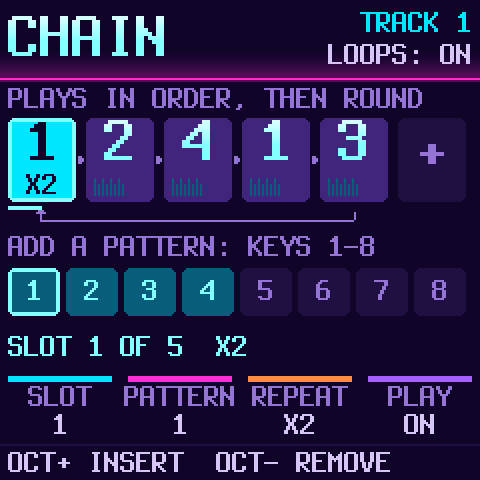
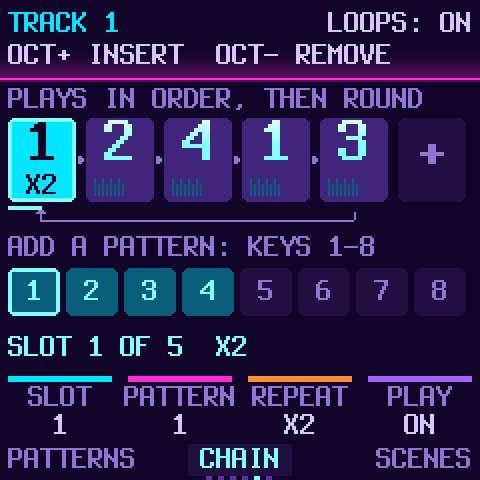
PATTERNS, CHAIN, SCENES: the page tabs at the bottom, as the other pages
The bottom line shows the page in a box between the page before and
after it, with a dot for each SEQ page (ui_draw.c draw_foot's look).
What OCT+ and OCT- do moves to the header's second line, under the
track; the large title goes (the tab names the page).

The guide's screenshots (assets/screens/all) are drawn again: the three
pages, and the boot and ABOUT screens with the version 1.9.7. GUIDE.md,
docs/groovebox-controls.md and CHANGELOG.md say so. The 1.9.7 packages
are rebuilt in the next commit.

Claude-Session: https://claude.ai/code/session_01CzC2fbFi3RyUU6oH7XmUWv

diff --git a/project/firmware/src/ui_pats.c b/project/firmware/src/ui_pats.c
@@ -154,14 +154,19 @@ UI_SMALL static void pats_key(uint32_t k)
     fmt_int(b + 8, w + 1);
     ui_say(b, song.playing ? " NEXT" : "");
 }
-/* the head: the title, two lines on the right */
-UI_SMALL static void pats_head(const char *title, const char *r1, uint16_t c1, const char *r2, uint16_t c2)
+UI_SMALL static uint32_t page_pos(uint32_t *n);      /* (ui_draw.c) */
+UI_SMALL static int32_t page_nb(int32_t d);
+UI_SMALL static const char *page_name(uint32_t i);
+/* the head (1.9.7): line 1 what it is about, left and right; line 2 what OCT+ and OCT- do here (before: the title in
+ * large type, the OCT line at the bottom, where the page's tabs are now as on the other pages: pats_foot) */
+UI_SMALL static void pats_head(const char *r1, uint16_t c1, const char *r2, uint16_t c2)
 {
+    static const char *const OCT[3] = {"oct+ this track  oct- all", "oct+ insert  oct- remove", "oct+ launch  oct- store"};
     cv_begin(240, 42, C_BLACK);
     cv_glow(20, 38);                             /* (1.1.0) SYNTHWAVE: a glow over the rule */
-    cv_text(4, 4, &FONT_L, title, C_WHITE);
-    ui_text_r(4, r1, c1);
-    ui_text_r(20, r2, c2);
+    cv_text(4, 4, &FONT_S, r1, c1);
+    ui_text_r(4, r2, c2);
+    cv_text(4, 20, &FONT_S, OCT[pats_view() % 3u], UI_G4);
     cv_rule(0, 39, 240, UI_G1);
     cv_blit(0, 0);
 }
@@ -197,10 +202,14 @@ UI_SMALL static void pats_pic(int32_t x, int32_t y, int32_t w, int32_t h, uint64
             cv_rect(x + (int32_t)i * cw, y + h - hh, cw > 2 ? cw - 1 : 1, hh, c);
     }
 }
-/* the knobs at 188 (or a message), the buttons' line under them */
-UI_SMALL static void pats_foot(const char *const *L, char (*v)[8], const char *hint)
+/* the knobs at 188 (or a message); under them (1.9.7) the page's tab between its neighbours (what SELECT brings) and a
+ * dot a page of the family, this one lit, as on the other SEQ pages (ui_draw.c draw_foot) */
+UI_SMALL static void pats_foot(const char *const *L, char (*v)[8])
 {
-    uint32_t k;
+    uint32_t k, n, i, at = page_pos(&n);
+    int32_t pv = page_nb(-1), nx = page_nb(1);
+    const char *nm = page_name(ui.page);
+    int32_t w = text_w(&FONT_S, nm) + 12, x = 120 - w / 2;
     cv_begin(240, 52, C_BLACK);
     if (ui.msg_t) {
         cv_rect(0, 2, 240, 30, C_WHITE);
@@ -213,8 +222,14 @@ UI_SMALL static void pats_foot(const char *const *L, char (*v)[8], const char *h
                     ui.hot_t && ui.hot_col == k ? C_WHITE : UI_G4);
         }
     }
-    cv_rect(0, 34, 240, 1, UI_G1);
-    cv_text(4, 36, &FONT_S, hint, UI_G4);
+    cv_rect(x, 34, w, 16, UI_G1);
+    cv_text(x + 6, 34, &FONT_S, nm, C_WHITE);
+    if (pv >= 0)
+        cv_text(4, 34, &FONT_S, page_name((uint32_t)pv), UI_G3);
+    if (nx >= 0)
+        ui_text_r(34, page_name((uint32_t)nx), UI_G3);
+    for (i = 0; n > 1u && i < n; i++)
+        cv_rect(120 - (int32_t)n * 3 + (int32_t)i * 6 + 1, 50, 3, 2, i + 1u == at ? C_WHITE : C_DIM);
     cv_blit(0, 188);
 }
 /* the keyboard: white keys 1..16 (F3 .. G5) and the black keys between, 1..8 the track's patterns, 9..16 the scenes;
@@ -275,7 +290,7 @@ UI_SMALL static void pads_draw(uint32_t blink)
     fmt_int(b + 6, (int32_t)sel + 1);
     fmt_int(q, (int32_t)(pb_n * 100u / PB_SIZE));       /* (how full the pattern store is) */
     str_cpy(q + str_len(q), "% full", 8);
-    pats_head("PATTERNS", b, UI_COL[sel], q, pb_n * 10u > PB_SIZE * 9u ? UI_RED : UI_G3);
+    pats_head(b, UI_COL[sel], q, pb_n * 10u > PB_SIZE * 9u ? UI_RED : UI_G3);
     cv_begin(240, 98, C_BLACK);                  /* the eight tiles, two rows of four */
     for (p = 0; p < NPAT; p++) {
         int32_t x = 4 + (int32_t)(p % 4u) * 59, y = 2 + (int32_t)(p / 4u) * 50;
@@ -316,7 +331,7 @@ UI_SMALL static void pads_draw(uint32_t blink)
         str_cpy(v[3], "again", 6);
     else
         fmt_int(v[3], (int32_t)pats_cursor + 1);
-    pats_foot(L, v, "oct+ this track  oct- all");
+    pats_foot(L, v);
 }
 UI_SMALL static void chain_draw(uint32_t blink)
 {
@@ -330,7 +345,7 @@ UI_SMALL static void chain_draw(uint32_t blink)
         chain_cursor = (uint8_t)n;
     str_cpy(b, "track ", 7);
     fmt_int(b + 6, (int32_t)sel + 1);
-    pats_head("CHAIN", b, UI_COL[sel], !n ? "no chain" : n < 2u ? "1 slot" : t->pat_coff ? "loops: off" : "loops: on",
+    pats_head(b, UI_COL[sel], !n ? "no chain" : n < 2u ? "1 slot" : t->pat_coff ? "loops: off" : "loops: on",
               n >= 2u && !t->pat_coff ? UI_G4 : UI_G3);
     tot = n < NCHAIN ? n + 1u : n;               /* (the slots and the end) */
     w0 = chain_cursor > 2u ? chain_cursor - 2u : 0u;   /* (six at a time, the cursor's third) */
@@ -409,7 +424,7 @@ UI_SMALL static void chain_draw(uint32_t blink)
         str_cpy(v[2], "-", 2);
     }
     str_cpy(v[3], t->pat_coff ? "off" : "on", 4);
-    pats_foot(L, v, "oct+ insert  oct- remove");
+    pats_foot(L, v);
 }
 UI_SMALL static void scenes_draw(uint32_t blink)
 {
@@ -425,7 +440,7 @@ UI_SMALL static void scenes_draw(uint32_t blink)
         pats_when(b);
     else
         b[0] = 0;
-    pats_head("SCENES", q, UI_COL[2], b, C_WHITE);
+    pats_head(q, UI_COL[2], b, C_WHITE);
     for (k = 0; k < 2u; k++) {                   /* the rows, four a band */
         uint32_t r;
         cv_begin(240, 73, C_BLACK);
@@ -480,7 +495,7 @@ UI_SMALL static void scenes_draw(uint32_t blink)
     } else {
         str_cpy(v[3], "keep", 5);
     }
-    pats_foot(L, v, "oct+ launch  oct- store");
+    pats_foot(L, v);
 }
 UI_SMALL static void pats_screen_draw(void)
 {

diff --git a/GUIDE.md b/GUIDE.md
@@ -519,6 +519,8 @@ The **TIMING** page (tap SEQ again, called PATTERN before) holds the **LEN** of 
 
 To get to PATTERNS, CHAIN or SCENES, tap **SEQ**, then turn **SELECT**: it walks NOTES to SCENES in both directions. If you tap SEQ from any other page, it always starts on NOTES. On the drum track, SEQ opens the [DRUMS grid](#the-drums-screen) in place of NOTES. TIMING, PLAY, PATTERNS, CHAIN, SCENES and SONG work the same.
 
+As on the other pages, the bottom line of PATTERNS, CHAIN and SCENES shows the page in a box between the page before and the page after it (1.9.7). The top of the screen shows the track and what OCT+ and OCT− do there.
+
 ### Beats from the keys (1.9)
 
 On a **drum track's PLAY page**, the white keys write beats. If you **hold one or more white keys**, BoopBox writes a whole pattern across the kit, over the length of the track (TIMING → LEN). The keys play no sound on this page. When you open the page, the screen shows *HOLD KEYS: A NEW BEAT*. The screen also shows the name of the groove (*BEAT HOUSE*).

diff --git a/CHANGELOG.md b/CHANGELOG.md
@@ -32,6 +32,9 @@ Also fixed in BoopBox:
   new scale from the drum track's own scale, which never changes. Now it takes it from a synth track, and each detent
   goes to the next scale.
 
+- **PATTERNS, CHAIN and SCENES show their page tabs at the bottom**, as the other SEQ pages do: the page in a box
+  between the page before and after it, and a dot for each page. What OCT+ and OCT- do is now at the top, under the
+  track.
 - **SEQ held + SAVE no longer jumps to SCENES.** To get to PATTERNS, CHAIN and SCENES, tap SEQ, then turn SELECT
   through the SEQ pages. SEQ held + SAVE now does nothing (it opens neither SONG nor NOTES).
 

diff --git a/docs/groovebox-controls.md b/docs/groovebox-controls.md
@@ -330,6 +330,9 @@ from PLAY.
 To go to one of these pages from any page and track, push **SEQ**, then turn **SELECT** to the page. (Before
 1.9.7, **SEQ** held + **SAVE** went to SCENES. Now that does nothing.)
 
+As on the other pages, the bottom line shows the page's name in a box between its neighbours, with a dot for each SEQ
+page (1.9.7). The top of the screen shows the track and what OCT+ and OCT- do on the page.
+
 On all three pages, **the keys are pads**. They play no notes.
 
 | Keys | Function |
